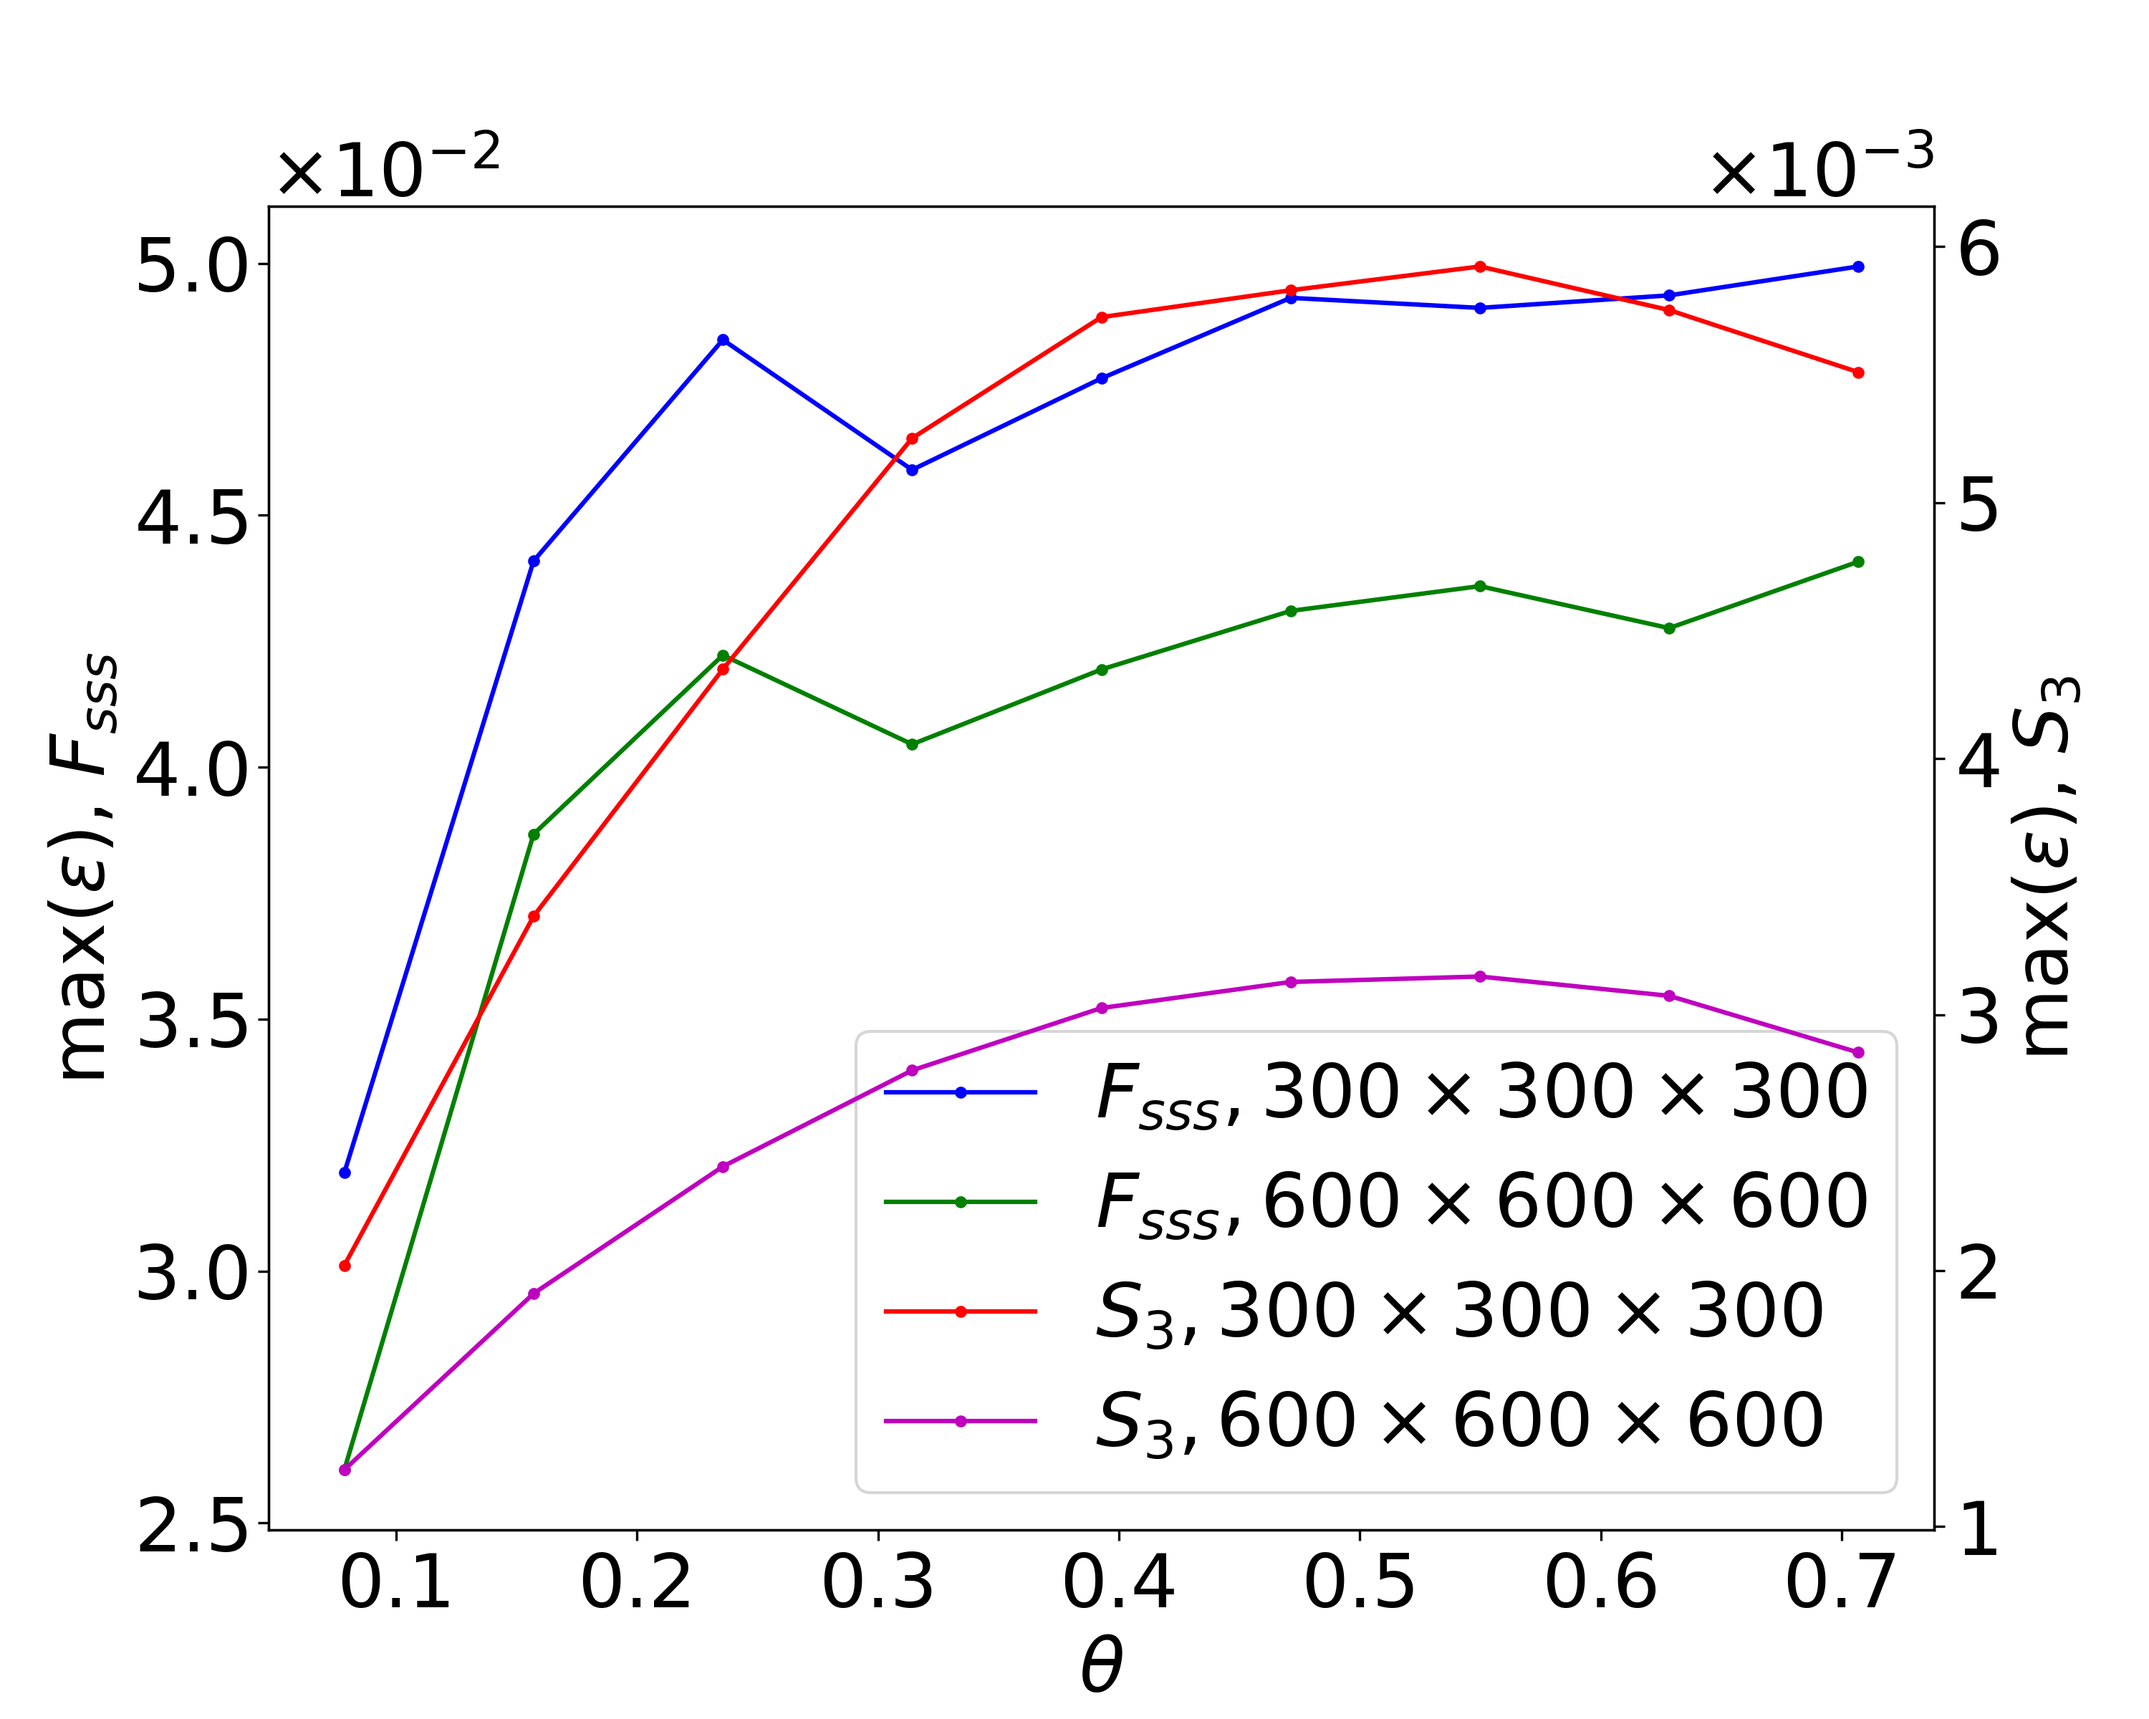
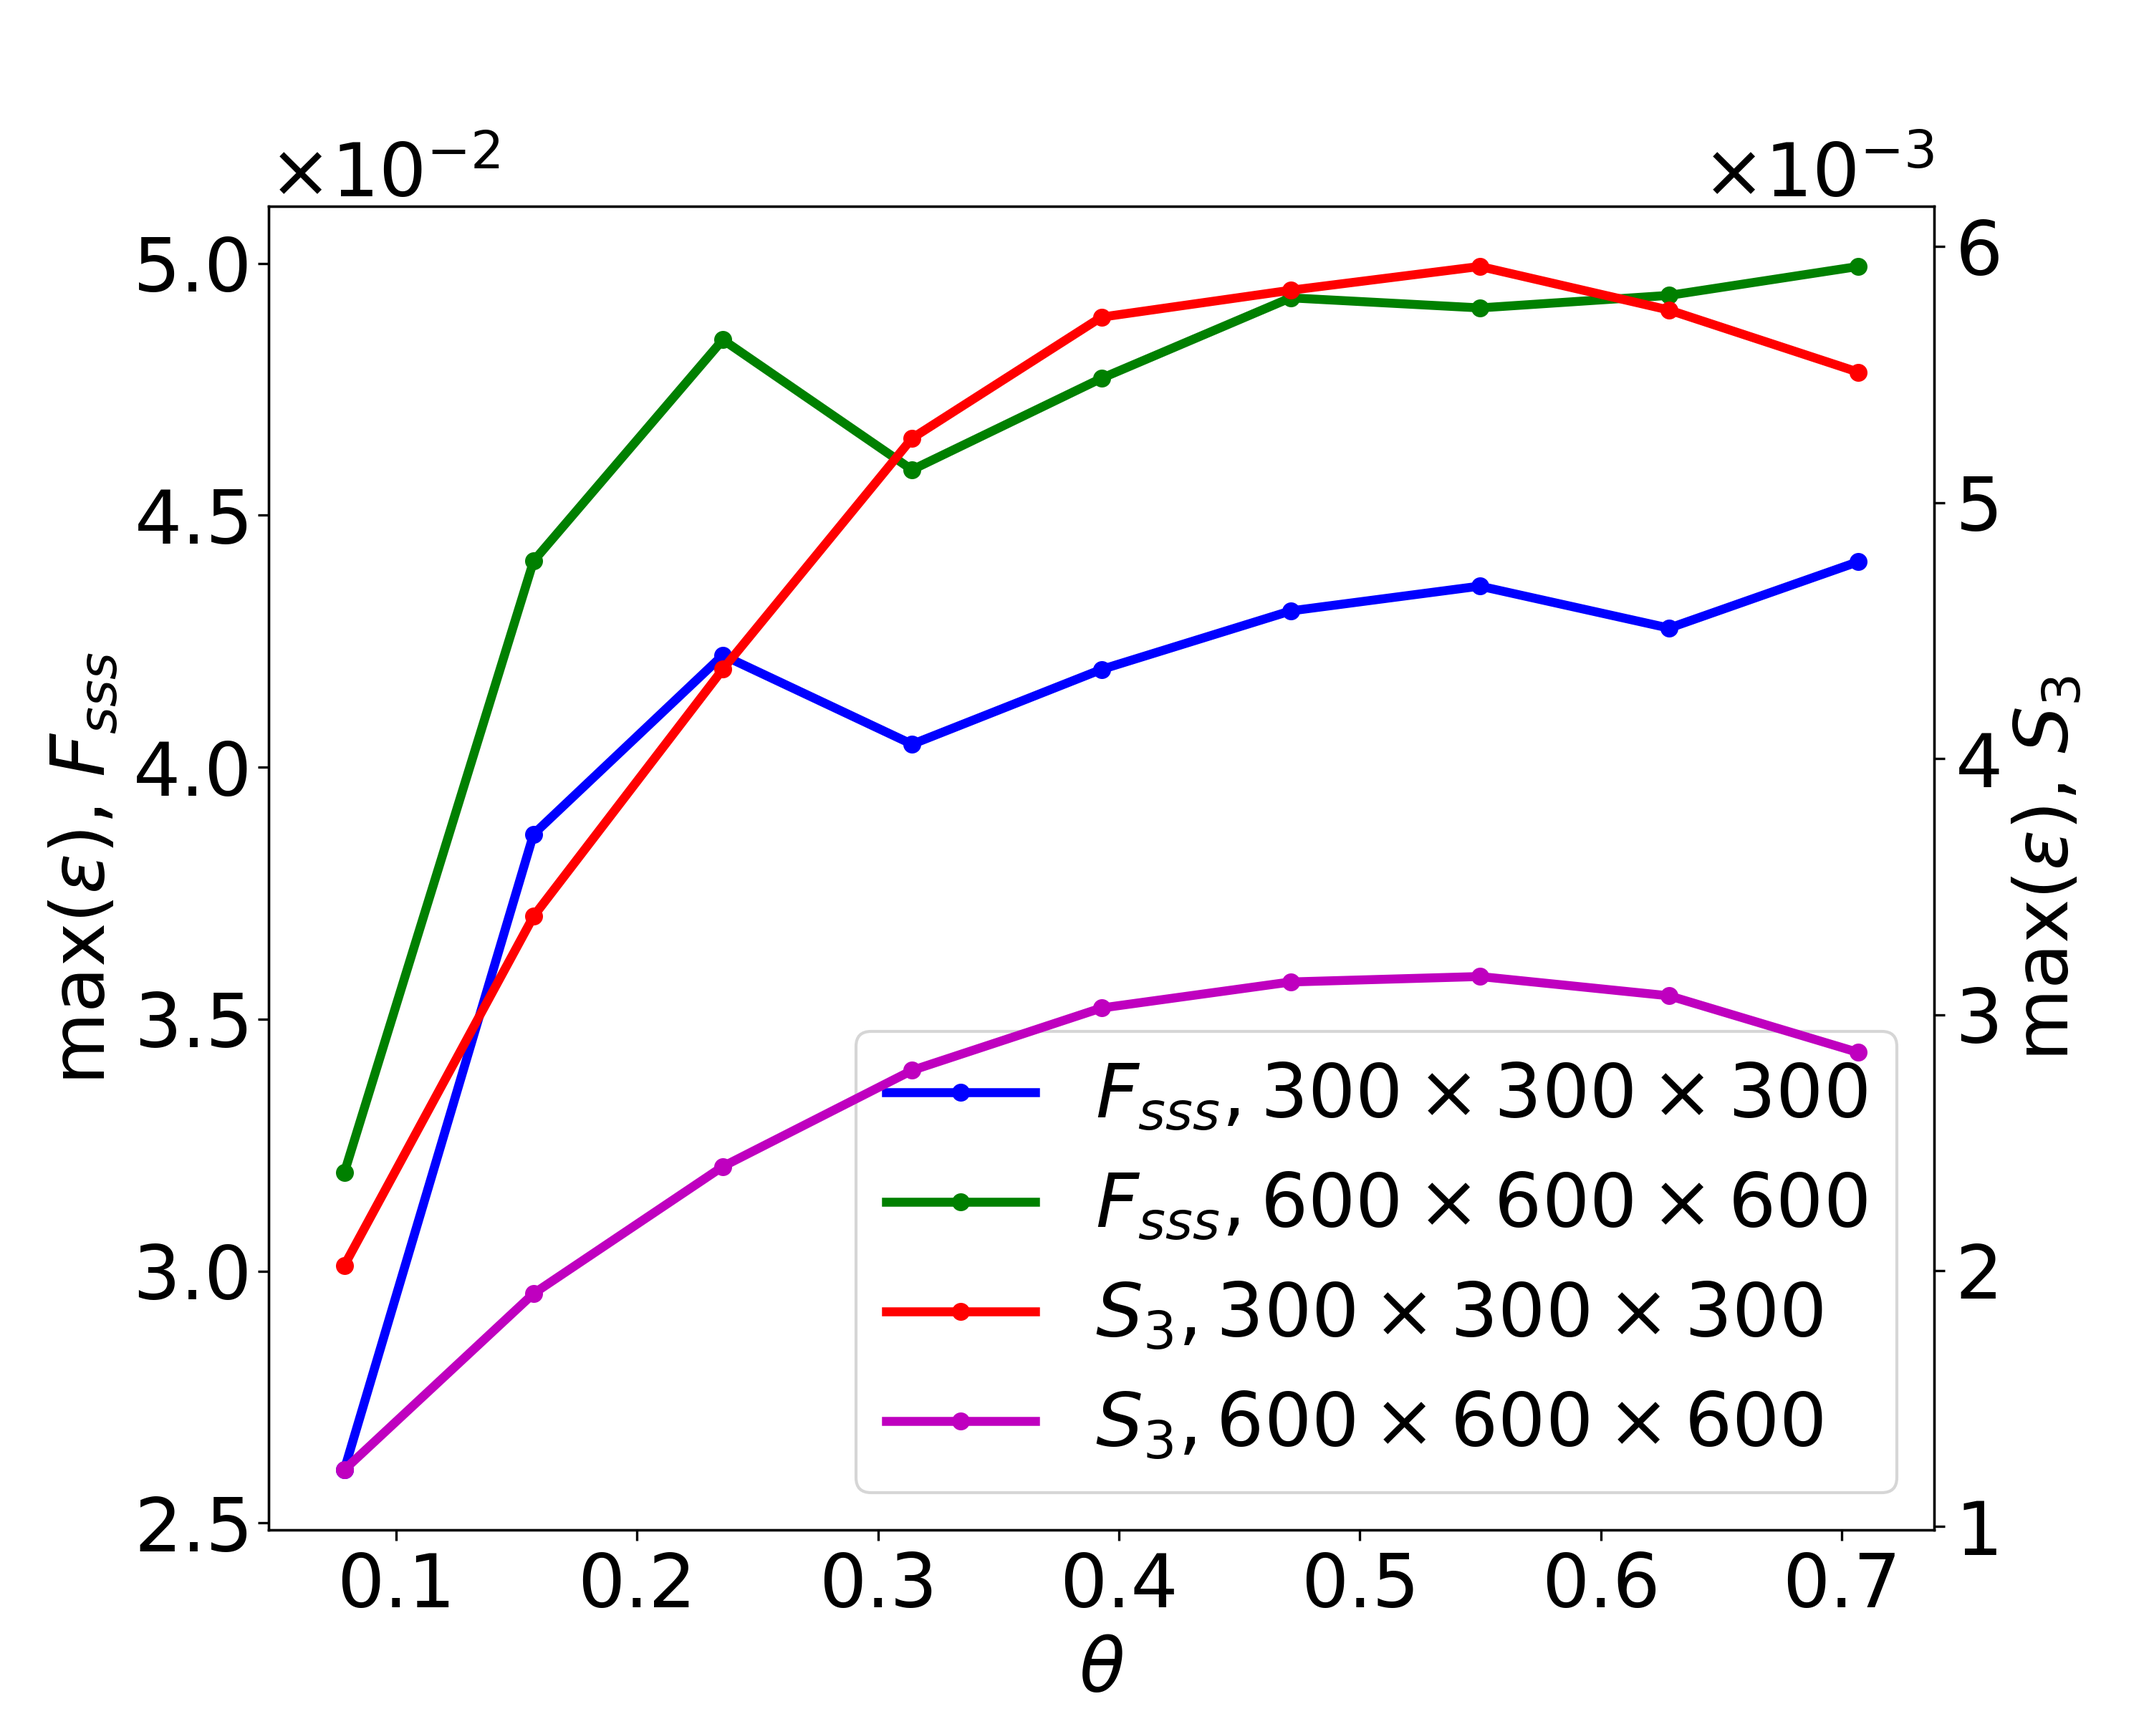
Line thickness (6/6)

diff --git a/data/error/plot.py b/data/error/plot.py
@@ -25,14 +25,14 @@ plt.figure(figsize = (10, 8), dpi = 300)
 plt.rc('font', size = 25)
 ax1 = plt.gca()
 ax2 = ax1.twinx()
-p1, = ax1.plot(xs, errsss_300, 'b.-', label = r'$F_{sss}, 300 \times 300 \times 300$')
-p2, = ax1.plot(xs, errsss_600, 'g.-', label = r'$F_{sss}, 600 \times 600 \times 600$')
-p3, = ax2.plot(xs, errs3_300, 'r.-', label = r'$S_3, 300 \times 300 \times 300$')
-p4, = ax2.plot(xs, errs3_600, 'm.-', label = r'$S_3, 600 \times 600 \times 600$')
+p1, = ax1.plot(xs, errsss_300, 'b.-', label = r'$F_{sss}, 300 \times 300 \times 300$', linewidth = 3, markersize = 10)
+p2, = ax1.plot(xs, errsss_600, 'g.-', label = r'$F_{sss}, 600 \times 600 \times 600$', linewidth = 3, markersize = 10)
+p3, = ax2.plot(xs, errs3_300, 'r.-', label = r'$S_3, 300 \times 300 \times 300$', linewidth = 3, markersize = 10)
+p4, = ax2.plot(xs, errs3_600, 'm.-', label = r'$S_3, 600 \times 600 \times 600$', linewidth = 3, markersize = 10)
 ax1.set_xlabel(r'$\theta$')
 ax1.set_ylabel(r'$\max (\varepsilon)$, $F_{sss}$')
 ax2.set_ylabel(r'$\max (\varepsilon)$, $S_3$')
 ax1.ticklabel_format(axis = "y", scilimits = (0, 0), useMathText = True)
 ax2.ticklabel_format(axis = "y", scilimits = (0, 0), useMathText = True)
 ax1.legend(handles = [p1, p2, p3, p4])
-plt.savefig('../../images/roterror.png')
+plt.savefig('roterror.png')
